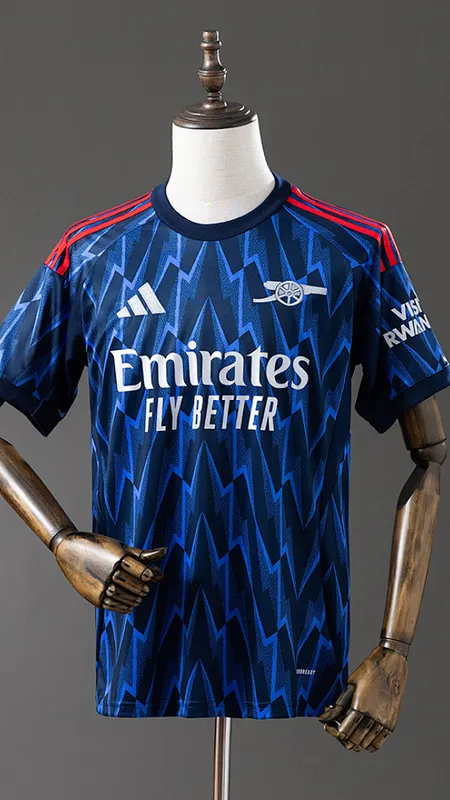
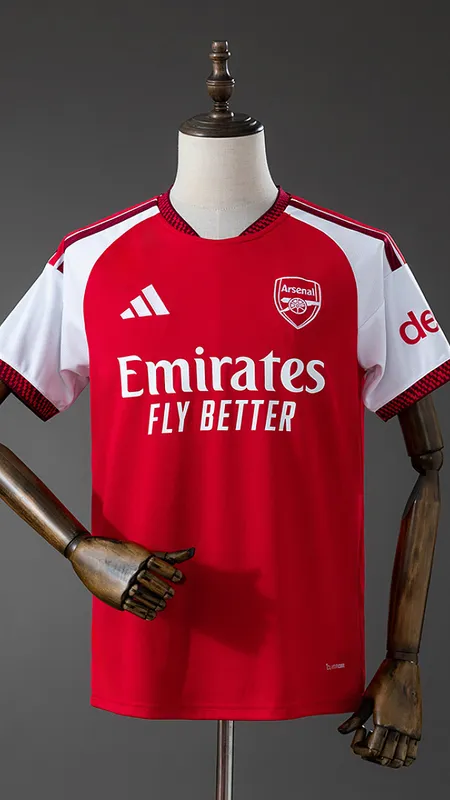
Vitrine escolhe sozinha a camisa mais recente de cada clube
A camisa deixa de ficar escrita no script: só os oito clubes ficam. A cada
rodada o montar-vitrine pontua os produtos do clube — temporada mais nova
primeiro, depois ser torcedor, depois ser o titular, e mais fotos desempata
— e fica com o vencedor. Hoje dá titular 26/27 nos oito; quando o
fornecedor lançar a 27/28, basta rodar de novo.

A foto passa a ser a capa que o fornecedor escolheu, não a última do álbum.
A regra da última era a que eu tinha deduzido antes de descobrir as capas, e
aqui ela entregava gola em close com a marca d'água à mostra.

diff --git a/src/vitrine.ts b/src/vitrine.ts
@@ -2,42 +2,42 @@
 // As camisas do carrossel da página inicial.
 export const VITRINE = [
   {
-    "id": "210879831",
+    "id": "236109499",
     "time": "Barcelona",
     "slug": "barcelona"
   },
   {
-    "id": "190502753",
+    "id": "227575396",
     "time": "Real Madrid",
     "slug": "real-madrid"
   },
   {
-    "id": "212192317",
+    "id": "224861961",
     "time": "Flamengo",
     "slug": "flamengo"
   },
   {
-    "id": "197820668",
+    "id": "225669792",
     "time": "Vasco da Gama",
     "slug": "vasco-da-gama"
   },
   {
-    "id": "211961909",
+    "id": "224861008",
     "time": "Fluminense",
     "slug": "fluminense"
   },
   {
-    "id": "211563080",
+    "id": "224171065",
     "time": "Palmeiras",
     "slug": "palmeiras"
   },
   {
-    "id": "211959333",
+    "id": "244522276",
     "time": "Chelsea",
     "slug": "chelsea"
   },
   {
-    "id": "211961043",
+    "id": "233497300",
     "time": "Arsenal",
     "slug": "arsenal"
   }
